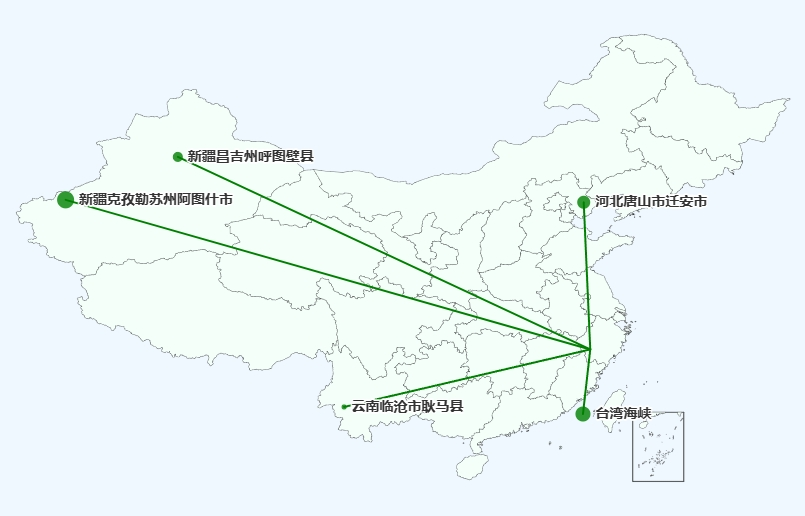
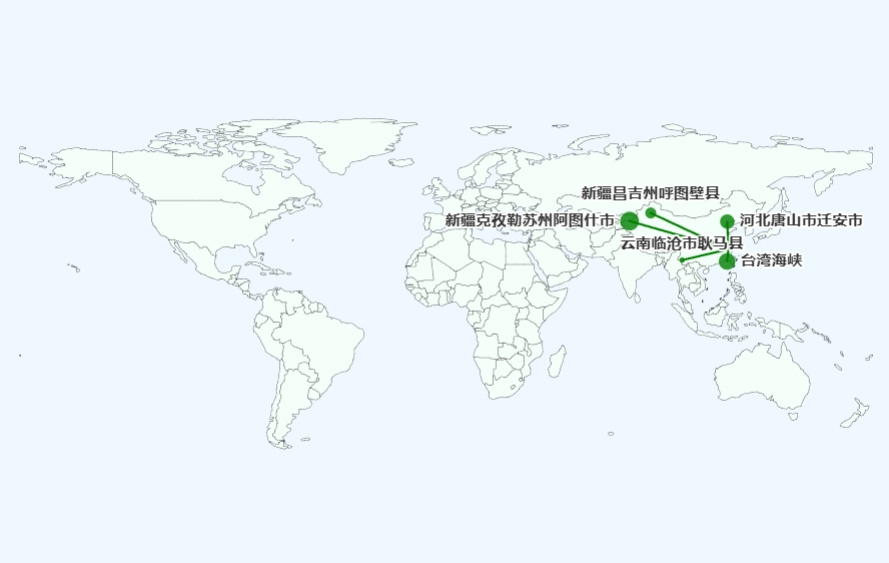
chore: using world map instead

diff --git a/docs/assets/examples/zh/map-chart/map-with-flying-lines.md b/docs/assets/examples/zh/map-chart/map-with-flying-lines.md
@@ -22,12 +22,10 @@ option: mapChart
 ## 代码演示
 
 ```javascript livedemo
-// 地图数据来自`https://geojson.cn/`
-const response = await fetch('https://geojson.cn/api/data/china.json');
+const response = await fetch('https://lf9-dp-fe-cms-tos.byteorg.com/obj/bit-cloud/geojson/world.json');
 const geojson = await response.json();
 VChart.registerMap('world', geojson);
 
-const dataResponse = await fetch('https://lf9-dp-fe-cms-tos.byteorg.com/obj/bit-cloud/geojson/earthquake.json');
 const earthquakeData = {
   values: [
     {
@@ -82,7 +80,7 @@ const spec = {
   type: 'common',
   region: [
     {
-      roam: true,
+      roam: false,
       coordinate: 'geo',
       longitudeField: 'lng',
       latitudeField: 'lat',

diff --git a/docs/assets/examples/en/map-chart/map-with-flying-lines.md b/docs/assets/examples/en/map-chart/map-with-flying-lines.md
@@ -22,8 +22,7 @@ option: mapChart
 ## Demo source
 
 ```javascript livedemo
-// Map data comes from `https://geojson.cn/`
-const response = await fetch('https://geojson.cn/api/data/china.json');
+const response = await fetch('https://lf9-dp-fe-cms-tos.byteorg.com/obj/bit-cloud/geojson/world.json');
 const geojson = await response.json();
 VChart.registerMap('world', geojson);
 
@@ -82,7 +81,7 @@ const spec = {
   type: 'common',
   region: [
     {
-      roam: true,
+      roam: false,
       coordinate: 'geo',
       longitudeField: 'lng',
       latitudeField: 'lat',
